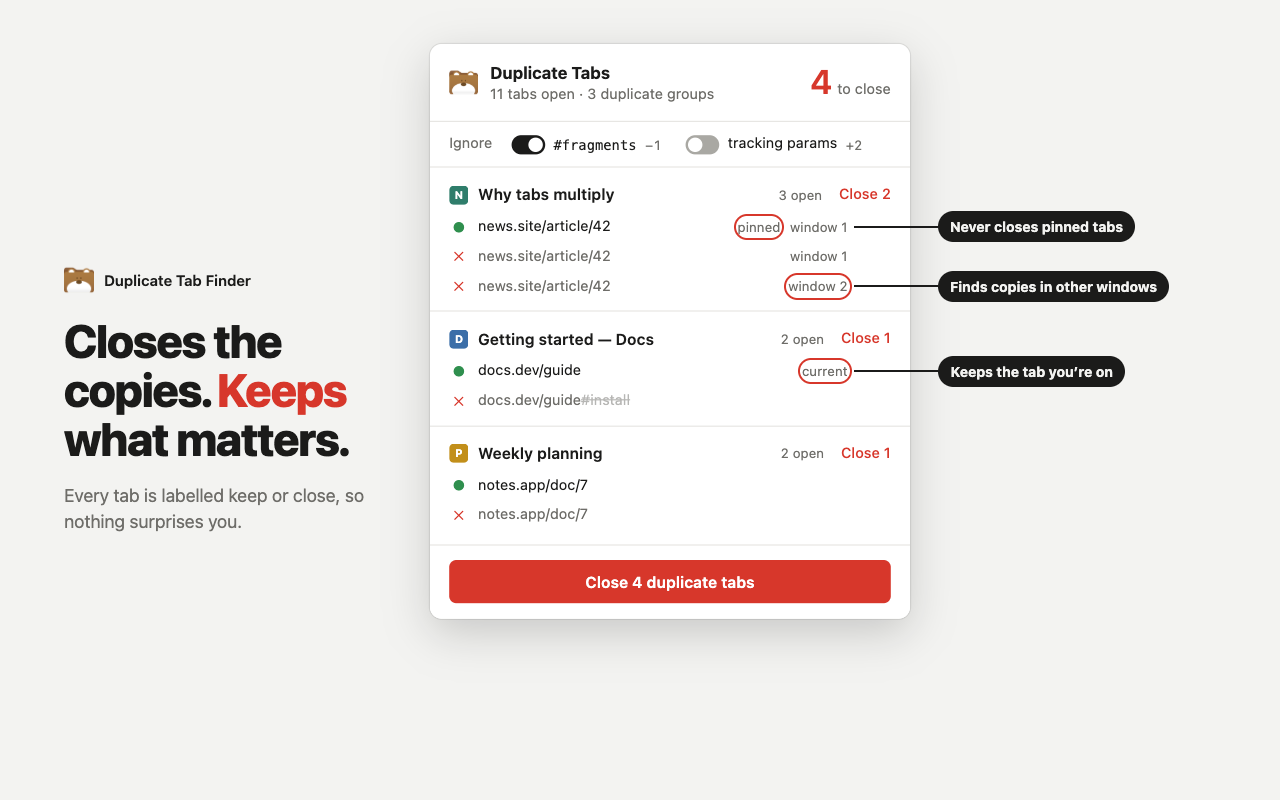
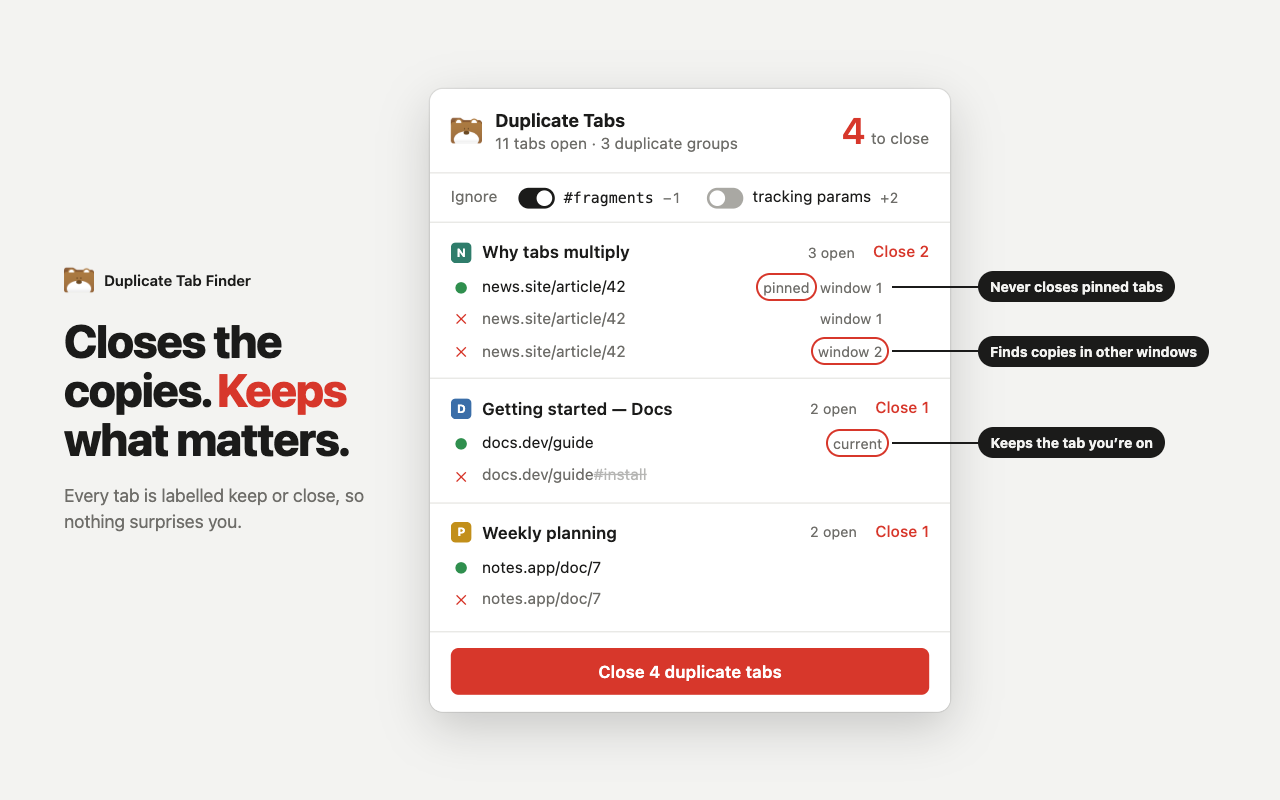
Regenerate store assets for flat popup design; neutral stage palette

Changed region(s): [[0.3125, 0.0625, 0.9688, 0.9062]]

diff --git a/store-assets/src/stage.html b/store-assets/src/stage.html
@@ -331,10 +331,10 @@ if (shot.layout === 'tile') {
     place(h(`<div id="endcard"><img src="/icons/icon128.png" alt=""><h2>Duplicate Tab Finder</h2><p>Close duplicate tabs — safely.</p><small>Free for Chrome and Firefox</small></div>`), {});
 } else if (shot.layout === 'marquee') {
     buildCopy({ left: 72, width: 470 });
-    buildBrowser({ left: 610, top: 36, width: 740, height: 560, pscale: 0.68 });
+    buildBrowser({ left: 610, top: 36, width: 740, height: 560, pscale: 0.85 });
 } else if (shot.layout === 'detail') {
     buildCopy({ left: 64, width: shot.copyWidth });
-    wrap = place(h('<div class="popup-wrap" style="--pscale:1.2"><iframe title="popup"></iframe></div>'),
+    wrap = place(h('<div class="popup-wrap" style="--pscale:1.3"><iframe title="popup"></iframe></div>'),
         { left: '430px', top: '44px', right: 'auto', transformOrigin: 'top left' });
     iframe = wrap.querySelector('iframe');
 } else {
@@ -419,11 +419,11 @@ function drawCallouts() {
         if (!badge) continue;
         const p = popupPoint(badge);
         const r = { left: p.f.left + p.rect.left * p.s, top: p.f.top + p.rect.top * p.s, w: p.rect.width * p.s, h: p.rect.height * p.s };
-        place(h('<div class="ring"></div>'), { left: px(r.left - 4), top: px(r.top - 4), width: px(r.w + 8), height: px(r.h + 8) });
+        place(h('<div class="ring"></div>'), { left: px(r.left - 7), top: px(r.top - 4), width: px(r.w + 14), height: px(r.h + 8) });
         const c = place(h(`<div class="callout"><i></i><span>${label}</span></div>`), {});
         // Start past the row's last badge so the line never crosses another badge.
         const lastBadge = [...badge.closest('.row').querySelectorAll('.badge')].pop().getBoundingClientRect();
-        const start = p.f.left + lastBadge.right * p.s + 6;
+        const start = p.f.left + lastBadge.right * p.s + 10;
         c.style.left = px(start);
         c.style.top = px(p.y - c.offsetHeight / 2);
         c.style.width = px(labelLeft - start + c.querySelector('span').offsetWidth);
@@ -457,6 +457,7 @@ async function renderStatic() {
     syncHeight();
     syncStrip(false);
     if (shot.dupes) strip.classList.add('show-dupes');
+    if (shot.layout === 'detail') wrap.style.top = px((H - iframe.offsetHeight * 1.3) / 2);
     if (shot.callouts) drawCallouts();
     await realWait(500);
     window.__ready = true;
